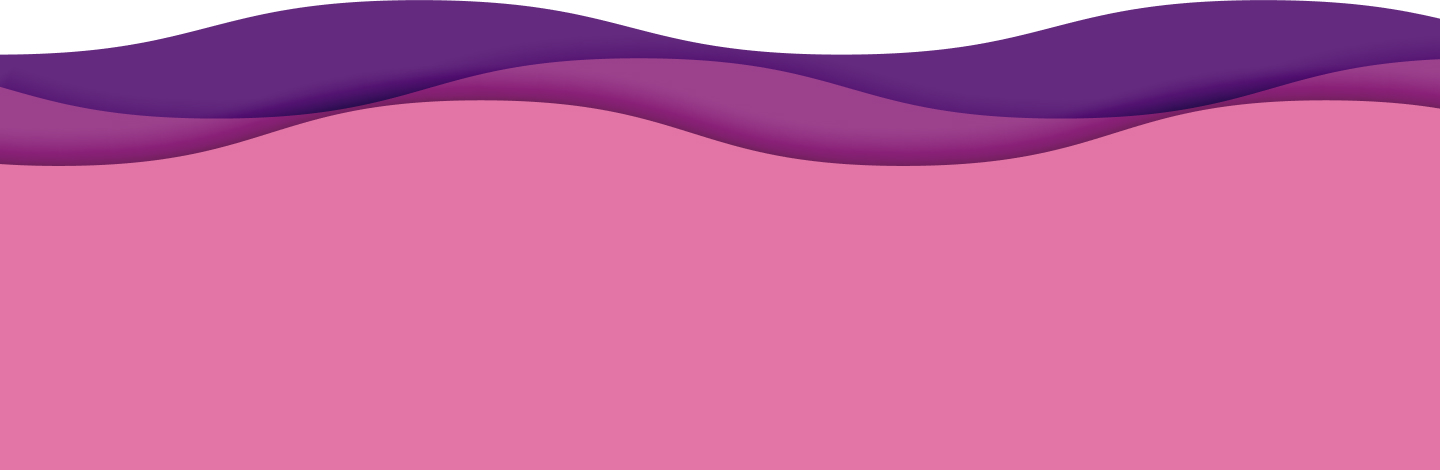
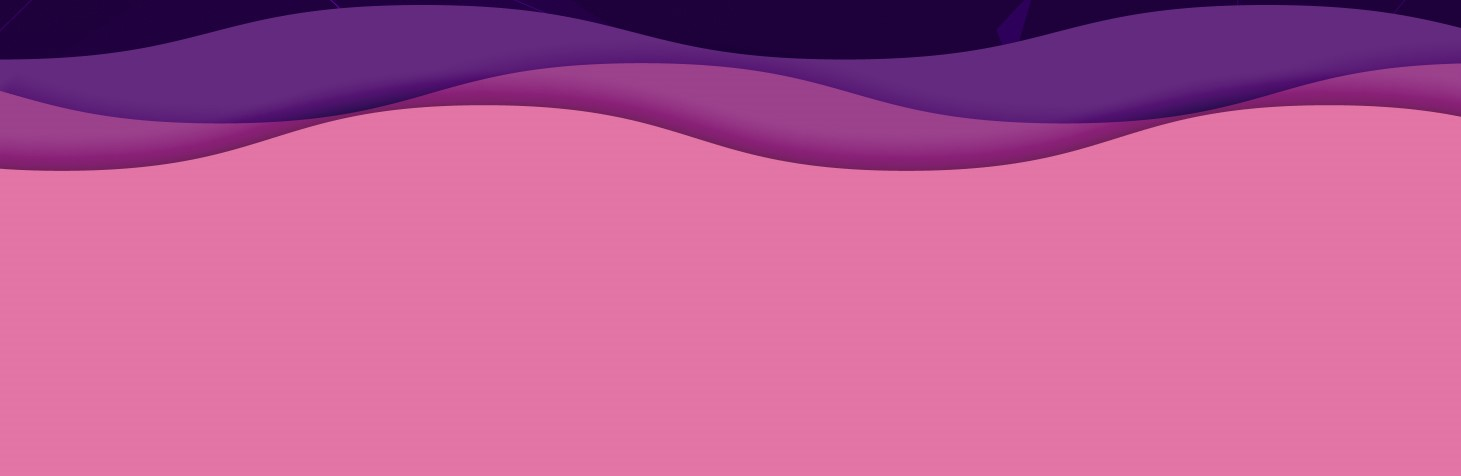
add backgrounds and titles on landing page

diff --git a/client/src/Components/About/index.js b/client/src/Components/About/index.js
@@ -1,0 +1,75 @@
+import { makeStyles } from '@material-ui/core'
+import React from 'react'
+
+import Box from '@material-ui/core/Box';
+import about_bg from '../../Assets/Backgrounds/about_bg.jpg'
+import about from '../../Assets/Backgrounds/about.png'
+import about_box from '../../Assets/Backgrounds/about_box.png'
+
+const useStyles= makeStyles({
+    root:{
+        background:  `url(${about_bg}) no-repeat`,
+        backgroundSize: '100% 100%',
+        height: '100vh',
+        width: '100%',
+    },
+    aboutContainer:{
+        padding: '150px',    
+        '@media (max-width:599px)': {
+            padding: '50px',
+        }
+    },
+    aboutBox:{ 
+        padding: '45px',
+        background:  `url(${about}) no-repeat`,
+        backgroundSize: '100% 70%',
+        height: '100vh',
+        width: '100%',
+    },
+    aboutContent: {
+        background:  `url(${about_box}) no-repeat`,
+        backgroundSize: '100% 50%',
+        height: '100vh',
+        width: '100%',   
+    },
+    header:{  
+    padding: '40px 0 0 100px',  
+      color: '#FFFFFF', 
+      fontSize: '2.5rem',
+      textAlign: 'left',
+      fontFamily: 'Rajdhani',
+      fontStyle: 'normal',
+      fontWeight: 'bold',
+      },
+      subtext: {
+        padding: '30px', 
+        color: '#000000',  
+        fontSize: '1.5rem',
+        fontFamily: 'Rajdhani',
+        fontStyle: 'normal',
+        fontWeight: 'bold',
+      }
+})
+
+const About = () => {
+    const classes= useStyles();
+    return (
+        <div className={classes.root}>
+            <div className={classes.aboutContainer}>
+                <div className={classes.aboutBox}>
+                    <div className={classes.aboutContent}>
+                        
+                    <Box className={classes.header}>ABOUT INVICTUS</Box>
+                    <Box className={classes.subtext}>
+                    INVICTUS is the annual technical fest of DelhiTechnological University, formerly known as Delhi College of Engineering.
+                    Being one of the biggest Tech Fest of North India, it provides a platform for budding Technocrats to explore and put their talent to test when they compete with other prodigies. 
+                    It covers a wide range of events in technical domain with some other miscellaneous events for quizzes and ML competitions to fun games and comedy night.  
+                    </Box>
+                    </div>
+                </div>
+            </div>
+        </div>
+    )
+}
+
+export default About

diff --git a/client/src/Screens/Home/Home.js b/client/src/Screens/Home/Home.js
@@ -2,15 +2,45 @@ import React from 'react'
 import Container from '@material-ui/core/Container';
 import { Link } from 'react-router-dom';
 import Hero from '../../Components/Hero/Hero'
+
+import { makeStyles } from '@material-ui/core';
 import GoEvents from '../../Components/GoEvents/GoEvents'
 import Prizes from '../../Components/Prizes';
+
+import Stats from '../../Components/Stats';
 import LectureSeries from '../../Components/LectureSeries';
+import main_bg from '../../Assets/Backgrounds/main_bg.jpg'
+
+import About from '../../Components/About';
+import WhatsNew from '../../Components/WhatsNew';
+
+const useStyles= makeStyles({
+  root: {
+    minHeight: '60vh',
+    '@media (max-width:599px)': {
+      height: '80vh',
+    }
+  },
+  home: {
+    minHeight: '100vh', 
+    height: '100%',
+    background:  `url(${main_bg}) no-repeat`,
+    backgroundPosition: 'center',
+    backgroundSize: '100% 100%',
+  }
+})
 
 const Home = () => {
+    const classes= useStyles();
+
     return (
         <React.Fragment>
             <div>
-                <Hero />
+                <div className={classes.home}></div>
+                {/* <Hero /> */}
+                <About/>
+                <WhatsNew/>
+                <Stats/>
                 <Prizes/>
                 <GoEvents />
                 <LectureSeries/>

diff --git a/client/src/Components/Prizes/index.js b/client/src/Components/Prizes/index.js
@@ -1,16 +1,27 @@
 import { makeStyles } from '@material-ui/core'
 import React from 'react'
 
-import prizes_bg from '../../Assets/Backgrounds/prizes.jpg'
+import Box from '@material-ui/core/Box';
+import prizes_bg from '../../Assets/Backgrounds/prizes_bg.jpg'
 
 const useStyles= makeStyles({
     root:{
         background:  `url(${prizes_bg}) no-repeat`,
         backgroundPosition: 'center',
-        backgroundSize: '100% 115%',
+        backgroundSize: '100% 100%',
         height: '100vh',
         width: '100%',
-    }
+    },
+    header:{  
+        paddingTop: '20px',  
+      color: '#FFFFFF', 
+      fontSize: '2.5rem',
+      display: 'flex',
+      justifyContent: 'center',
+      fontFamily: 'Rajdhani',
+      fontStyle: 'normal',
+      fontWeight: 'bold',
+      }
 })
 
 const Prizes = () => {
@@ -18,6 +29,7 @@ const Prizes = () => {
     return (
         <div className={classes.root}>
             
+          <Box className={classes.header}>PRIZES</Box>
         </div>
     )
 }

diff --git a/client/src/Components/WhatsNew/index.js b/client/src/Components/WhatsNew/index.js
@@ -1,0 +1,37 @@
+import { makeStyles } from '@material-ui/core'
+import React from 'react'
+
+import Box from '@material-ui/core/Box';
+import WhatsNew_bg from '../../Assets/Backgrounds/whats_new_bg.jpg'
+
+const useStyles= makeStyles({
+    root:{
+        background:  `url(${WhatsNew_bg}) no-repeat`,
+        backgroundPosition: 'center',
+        backgroundSize: '100% 100%',
+        height: '100vh',
+        width: '100%',
+    },
+    header:{  
+      paddingTop: '20px',  
+    color: '#FFFFFF', 
+    fontSize: '2.5rem',
+    display: 'flex',
+    justifyContent: 'center',
+    fontFamily: 'Rajdhani',
+    fontStyle: 'normal',
+    fontWeight: 'bold',
+    }
+})
+
+const WhatsNew = () => {
+    const classes= useStyles();
+    return (
+        <div className={classes.root}>
+            
+          <Box className={classes.header}>WHATS NEW</Box>
+        </div>
+    )
+}
+
+export default WhatsNew

diff --git a/client/src/Components/Stats/index.js b/client/src/Components/Stats/index.js
@@ -1,0 +1,37 @@
+import { makeStyles } from '@material-ui/core'
+import React from 'react'
+
+import stats_bg from '../../Assets/Backgrounds/stats_bg.jpg'
+import Box from '@material-ui/core/Box';
+
+const useStyles= makeStyles({
+    root:{
+        background:  `url(${stats_bg}) no-repeat`,
+        backgroundPosition: 'center',
+        backgroundSize: '100% 100%',
+        height: '100vh',
+        width: '100%',
+    },
+    header:{  
+      paddingTop: '20px',  
+    color: '#FFFFFF', 
+    fontSize: '2.5rem',
+    display: 'flex',
+    justifyContent: 'center',
+    fontFamily: 'Rajdhani',
+    fontStyle: 'normal',
+    fontWeight: 'bold',
+    }
+})
+
+const Stats = () => {
+    const classes= useStyles();
+    return (
+        <div className={classes.root}>
+            
+          <Box className={classes.header}>PREVIOUS STATS</Box>
+        </div>
+    )
+}
+
+export default Stats

diff --git a/client/src/Components/GoEvents/GoEvents.js b/client/src/Components/GoEvents/GoEvents.js
@@ -2,11 +2,11 @@ import React from 'react'
 import './GoEvents.css'
 import { makeStyles } from '@material-ui/core'
 import Box from '@material-ui/core/Box';
-import glimpse_of_events_bg from '../../Assets/Backgrounds/glimpse_of_events.jpg'
+import glimpse_events_bg from '../../Assets/Backgrounds/glimpse_events_bg.jpg'
 
 const useStyles= makeStyles({
     root:{
-        background:  `url(${glimpse_of_events_bg}) no-repeat`,
+        background:  `url(${glimpse_events_bg}) no-repeat`,
         backgroundSize: '100% 100%',
         height: '100%',
         width: '100%',

diff --git a/client/src/Components/LectureSeries/index.js b/client/src/Components/LectureSeries/index.js
@@ -1,7 +1,7 @@
 import { makeStyles } from '@material-ui/core'
 import React from 'react'
 import Box from '@material-ui/core/Box';
-import lectures_bg from '../../Assets/Backgrounds/lecture_bg.jpg'
+import lectures_bg from '../../Assets/Backgrounds/lectures_bg.jpg'
 
 const useStyles= makeStyles({
     root:{
